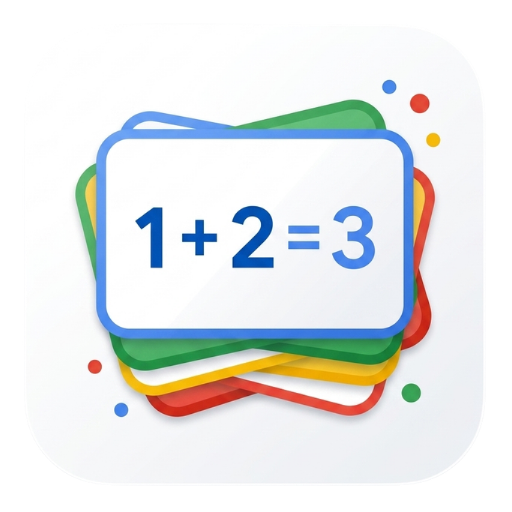
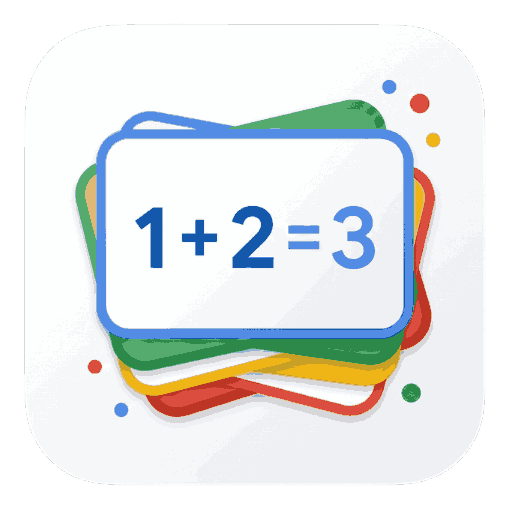
圏外用の画面を追加し、アイコンを圧縮する（697KB → 42KB）
GIGA Standard v4 Part I §3-4「offline.html」と §2-6「画像の上限」に合わせる。

■ offline.html を追加

圏外で本体も保存されていないとき、これまではブラウザの「接続できません」
画面になっていた。児童には「アプリが壊れた」ようにしか見えない。
アプリと同じ配色（#f59e0b / #f6f7f9）で、「もういちど ためす」ボタンを置いた。

この画面が出る状況では Tailwind も Google Fonts も取れないため、
CSS は直書きで1枚に閉じ、フォントもシステムのものを使う。
ボタンの文字色は #451a03（#f59e0b の上で 6.97:1）。
白は 2.15:1 しかなく読めない。amber-900 の #78350f でも 4.22:1 で足りなかった。

■ sw.js: 保存を1本ずつ行うようにした（コメントとコードの食い違いを解消）

「1つでも失敗すると install が止まらないよう、個別に addAll する」と
コメントに書いてあるが、実際は cache.addAll で「ぜんぶ成功かぜんぶ失敗か」
しかなかった。校内Wi-Fiで1本だけ取りそこねると何ひとつ保存されない。

studyLog.js だけ 404 にして実測した結果:

  addAll のまま      0 / 12 件が保存された（offline.html も入らない）
  1本ずつ add       11 / 12 件が保存された（取れなかった1本以外すべて）

前者では、圏外用の画面を足しても、それが必要な場面では消えていた。

navigate の分岐も 本体 → offline.html → Response.error() の順に伸ばした。
VERSION を v1.3.0 に上げた。

■ アイコンを圧縮（128色・ディザなし）

  favicon.png                    257.5KB →  12.3KB  -95%
  icons/icon-512.png             207.7KB →  12.3KB  -94%
  icons/icon-maskable-512.png    143.9KB →   9.7KB  -93%
  icons/icon-192.png              37.0KB →   2.7KB  -93%
  icons/icon-maskable-192.png     24.0KB →   2.4KB  -90%
  icons/apple-touch-icon.png      27.3KB →   2.9KB  -89%
  合計                           697.5KB →  42.4KB  -94%

寸法は6枚とも元のまま。ディザを切ってあるのは、既定のまま128色にすると
等倍で見たときに白いカード面へ目に見えるざらつきが出たため。
切ると縞も出ず、元と見分けがつかない。

maskable の2枚はアルファが落ちるが、元が完全に不透明（アルファ最小値255・
不透明でない画素0個）であることを確かめたうえで許可している。

Claude-Session: https://claude.ai/code/session_012pdrXTFuTj2nMhFaRgucEG

diff --git a/offline.html b/offline.html
@@ -1,0 +1,123 @@
+<!doctype html>
+<html lang="ja">
+  <head>
+    <meta charset="UTF-8" />
+    <meta name="viewport" content="width=device-width, initial-scale=1.0, viewport-fit=cover" />
+    <meta name="color-scheme" content="light" />
+    <meta name="theme-color" content="#f59e0b" />
+    <title>けいさんカード | インターネットにつながっていません</title>
+    <link rel="icon" type="image/png" href="./favicon.png" />
+    <!--
+      圏外のときに出る画面。「壊れた」と思わせないことが目的なので、
+      アプリと同じ配色（theme_color #f59e0b / background_color #f6f7f9）にしてある。
+
+      この画面が出るのは、通信ができないうえに index.html も保存されていない
+      ときだけ。つまり Tailwind も Google Fonts も取れない。
+      そのため CSS は直書きで1枚に閉じ、フォントもシステムのものを使う。
+      Zen Maru Gothic が端末にあれば使われ、無ければ普通の丸ゴシックに落ちる。
+    -->
+    <style>
+      :root {
+        --bg: #f6f7f9;
+        --panel: #ffffff;
+        --text: #3f3f46;
+        --primary: #f59e0b;
+        --line: #e5e7eb;
+      }
+      * { -webkit-tap-highlight-color: transparent; box-sizing: border-box; }
+      html { -webkit-text-size-adjust: 100%; text-size-adjust: 100%; }
+      body {
+        margin: 0;
+        min-height: 100vh;   /* 古い端末むけのフォールバック */
+        min-height: 100dvh;  /* 実際に使われる値 */
+        display: flex;
+        align-items: center;
+        justify-content: center;
+        padding: calc(24px + env(safe-area-inset-top, 0px))
+                 calc(24px + env(safe-area-inset-right, 0px))
+                 calc(24px + env(safe-area-inset-bottom, 0px))
+                 calc(24px + env(safe-area-inset-left, 0px));
+        background: var(--bg);
+        color: var(--text);
+        font-family: 'Zen Maru Gothic', 'Hiragino Maru Gothic ProN', 'Kosugi Maru', system-ui, sans-serif;
+        line-height: 1.8;
+      }
+      .card {
+        width: 100%;
+        max-width: 420px;
+        background: var(--panel);
+        border: 1px solid var(--line);
+        border-radius: 24px;
+        box-shadow: 0 10px 30px rgba(0, 0, 0, 0.08);
+        padding: 32px 24px;
+        text-align: center;
+      }
+      .mark { font-size: clamp(48px, 14vw, 76px); line-height: 1; margin-bottom: 8px; }
+      /* 日本語は語の途中で折り返すと読みにくい（「つなが／っていません」など）。
+         文節の区切りは <br> で明示し、それ以外では割らない。 */
+      h1 { font-size: clamp(20px, 5vw, 26px); font-weight: 900; margin: 0 0 12px; word-break: keep-all; }
+      p { word-break: keep-all; }
+      p { font-size: clamp(14px, 3.6vw, 16px); margin: 0 0 22px; }
+      .btn {
+        display: inline-flex;
+        align-items: center;
+        justify-content: center;
+        min-height: 56px;      /* 児童の指でも押せる大きさ（Part I §2-4） */
+        width: 100%;
+        padding: 0 20px;
+        font-size: clamp(16px, 4vw, 18px);
+        font-weight: 900;
+        font-family: inherit;
+        /* #f59e0b の上の白は 2.15:1 しかなく読めない。
+           文字用には濃い側を使う（Part I §2-8 の面用／文字用の使い分け）。
+           amber-900 の #78350f でも 4.22:1 で足りず、#451a03 まで下げて 6.97:1。
+           いずれも計算して確かめた値。 */
+        color: #451a03;
+        background: var(--primary);
+        border: none;
+        border-radius: 16px;
+        box-shadow: 0 4px 0 #b45309;
+        cursor: pointer;
+        touch-action: manipulation;
+      }
+      .btn:active { transform: translateY(3px); box-shadow: 0 1px 0 #b45309; }
+      .btn:focus-visible { outline: 3px solid var(--text); outline-offset: 3px; }
+      .hint {
+        margin-top: 18px;
+        margin-bottom: 0;
+        font-size: clamp(12px, 3.2vw, 13px);
+        color: #6b7280;   /* #f6f7f9 の上で 4.8:1 */
+      }
+      @media (prefers-reduced-motion: reduce) {
+        * { animation-duration: .01ms !important; transition-duration: .01ms !important; }
+      }
+      @media (forced-colors: active) {
+        .btn { border: 2px solid ButtonText; }
+      }
+    </style>
+  </head>
+  <body>
+    <main class="card">
+      <div class="mark" aria-hidden="true">📡</div>
+      <h1>いま インターネットに<br />つながっていません</h1>
+      <p>
+        Wi-Fi が つながっているか たしかめてから、<br />
+        下の ボタンを おしてね。
+      </p>
+      <button class="btn" id="retry" type="button">もういちど ためす</button>
+      <p class="hint">
+        ホームがめんに けいさんカードを おいてあると、<br />
+        つながっていなくても つかえます。
+      </p>
+    </main>
+    <script>
+      document.getElementById('retry').addEventListener('click', function () {
+        location.reload();
+      });
+      // つながり直したら、児童が押さなくても自動でもどる
+      window.addEventListener('online', function () {
+        location.replace('./');
+      });
+    </script>
+  </body>
+</html>

diff --git a/sw.js b/sw.js
@@ -9,7 +9,7 @@
  *  （古い 保存を 消して、新しい ファイルに 入れかえます）
  * ===================================================================== */
 
-const VERSION = 'v1.2.0';
+const VERSION = 'v1.3.0';
 
 // このアプリ専用の目じるし。
 // キャッシュ置き場（CacheStorage）は gigayama.github.io というサイト全体で
@@ -26,6 +26,7 @@ const CORE_ASSETS = [
   './App.jsx',
   './studyLog.js',
   './manifest.webmanifest',
+  './offline.html',
   './favicon.png',
   './icons/icon-192.png',
   './icons/icon-512.png',
@@ -39,8 +40,19 @@ self.addEventListener('install', (event) => {
   event.waitUntil(
     caches
       .open(CORE_CACHE)
-      // 1つでも失敗すると install が止まらないよう、個別に addAll する
-      .then((cache) => cache.addAll(CORE_ASSETS))
+      // 1つでも失敗したときに全部が入らなくなるのを避けるため、1本ずつ入れる。
+      // cache.addAll は「ぜんぶ成功か、ぜんぶ失敗か」しかない。校内Wi-Fiで
+      // 1本だけ取りそこねると、offline.html を含めて何ひとつ保存されないまま
+      // インストールが終わり、圏外のときに出す画面まで無くなってしまう。
+      .then((cache) =>
+        Promise.all(
+          CORE_ASSETS.map((u) =>
+            cache
+              .add(new Request(u, { cache: 'reload' }))
+              .catch(() => console.warn('[sw] 保存できなかったので飛ばす:', u))
+          )
+        )
+      )
       .then(() => self.skipWaiting())
       .catch(() => self.skipWaiting())
   );
@@ -78,9 +90,17 @@ self.addEventListener('fetch', (event) => {
   if (req.mode === 'navigate') {
     event.respondWith(
       fetch(req).catch(() =>
-        caches
-          .open(CORE_CACHE)
-          .then((c) => c.match('./index.html', { ignoreSearch: true }))
+        caches.open(CORE_CACHE).then(async (c) => {
+          // 保存した本体があればそれを出す（オフラインでも ふだんどおり使える）
+          const app = await c.match('./index.html', { ignoreSearch: true });
+          if (app) return app;
+          // 本体がまだ保存されていない＝初回から圏外だった場合。
+          // ここで何も返さないとブラウザの「接続できません」画面になり、
+          // 児童には「アプリが壊れた」ようにしか見えない。
+          const offline = await c.match('./offline.html');
+          if (offline) return offline;
+          return Response.error();
+        })
       )
     );
     return;
